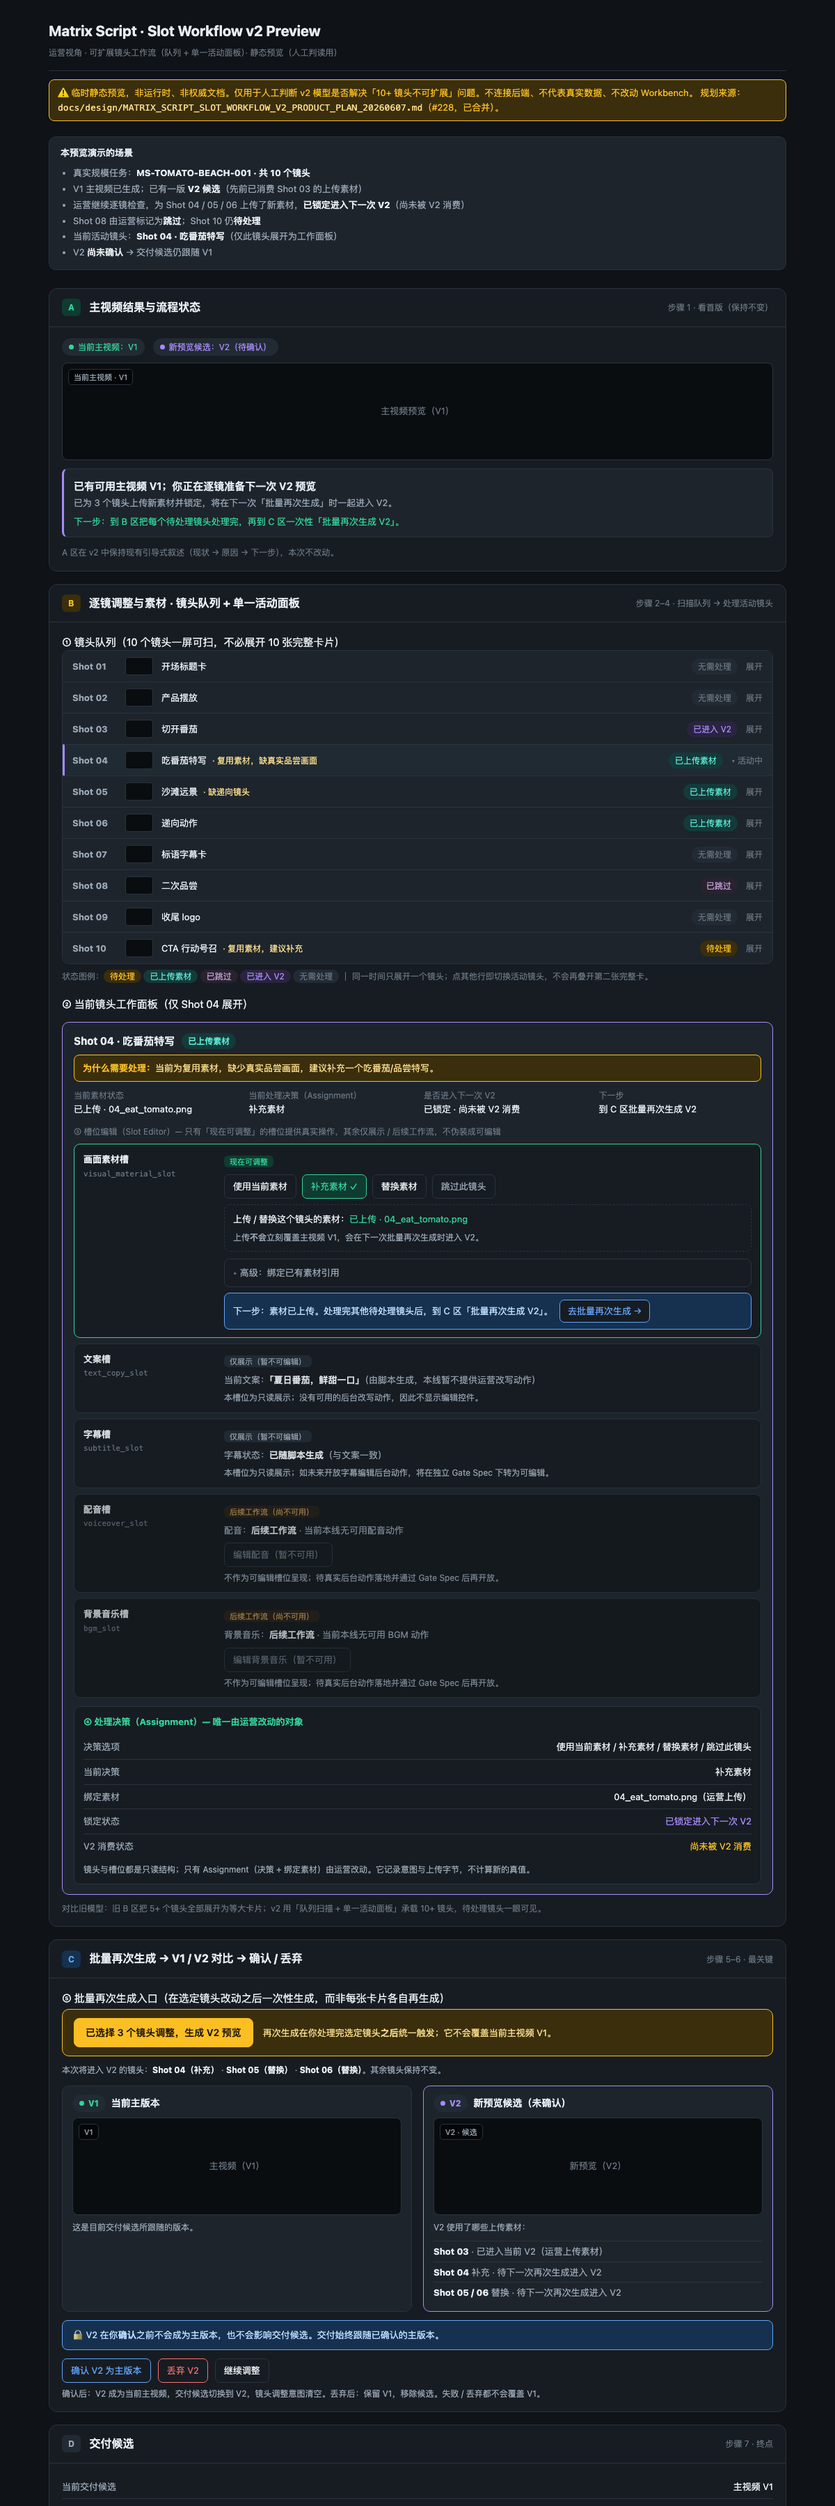
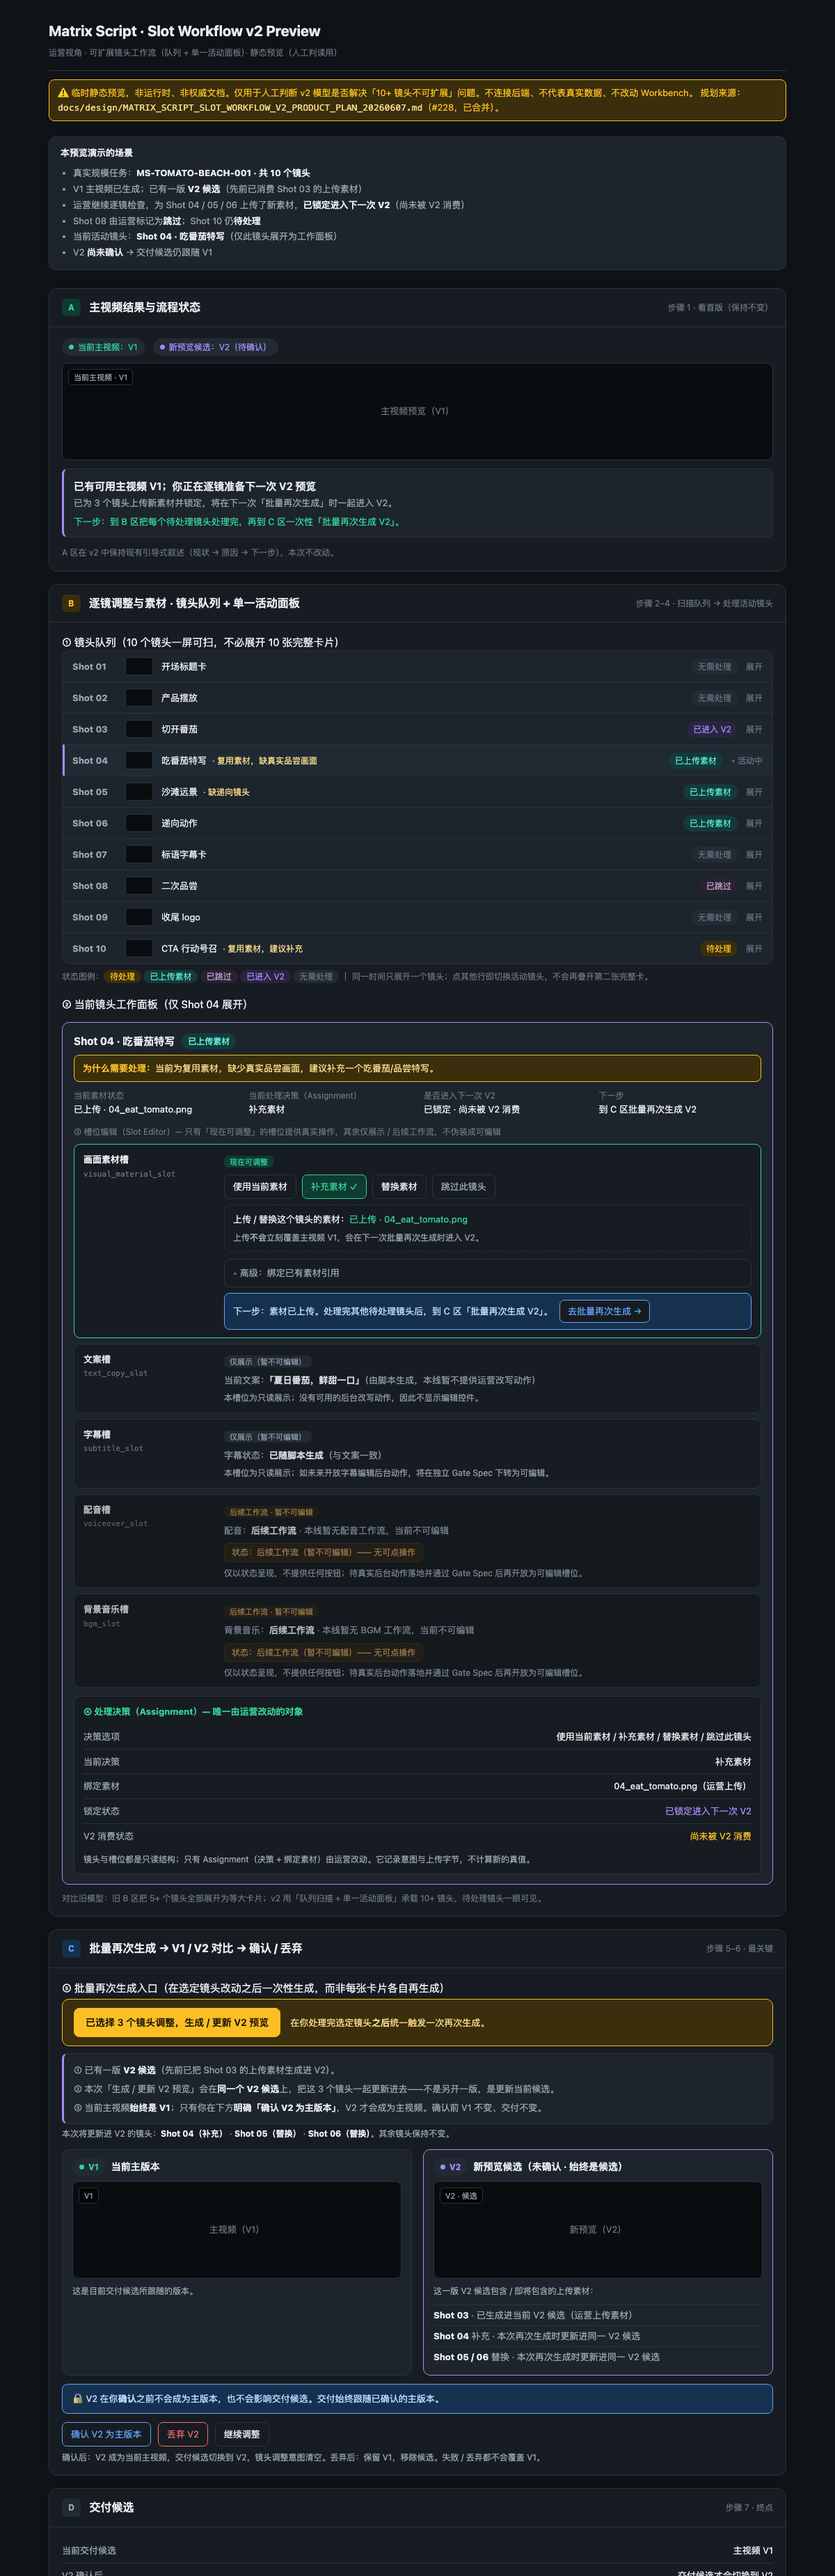
docs(matrix-script): Slot Workflow v2 preview revision C-1/C-2 + fast re-review PASS
Preview-only revision per Owner decision (no model change, no Gate Spec, no runtime):
- C-1: tighten C区 V1/V2 copy — existing V2 candidate; batch "生成/更新 V2 预览" updates
  the same candidate (not a new version); V1 stays current main until explicit confirm.
- C-2: future slots (voiceover/bgm) render as pure status lines, no disabled buttons.

Screenshot regenerated. Operator Review updated with Round-2 fast re-review: PASS.

Docs-only. Not authority. No gateway/templates/services/tests/schemas/contracts touched.
Gate Spec unchanged. No implementation authorized. Stops at Owner Decision Request (S4).

diff --git a/docs/design/previews/matrix_script_slot_workflow_v2_preview.html b/docs/design/previews/matrix_script_slot_workflow_v2_preview.html
@@ -129,6 +129,8 @@
   .upload .file{color:var(--emerald)}
   .ro{font-size:13px;color:var(--muted)}
   .ro b{color:var(--ink)}
+  .statusline{display:inline-block;margin-top:8px;font-size:12px;padding:3px 10px;border-radius:6px;
+    background:#241c12;color:#c79a52;border:1px solid #3a2e0c}
   details.adv{margin-top:10px;border:1px solid var(--line);border-radius:8px;background:var(--panel)}
   details.adv>summary{cursor:pointer;padding:9px 12px;font-size:13px;color:var(--muted);list-style:none}
   details.adv>summary::-webkit-details-marker{display:none}
@@ -153,6 +155,9 @@
   .batchbar .bexpl{font-size:13px;color:#f5d98a}
   .selset{font-size:12px;color:var(--muted);margin:4px 0 12px}
   .selset b{color:var(--ink)}
+  .v2state{background:var(--panel2);border:1px solid var(--line);border-left:3px solid var(--violet);
+    border-radius:8px;padding:10px 14px;margin:8px 0 4px;font-size:13px;color:var(--muted)}
+  .v2state>div{padding:3px 0} .v2state b{color:var(--ink)}
 
   /* ---- compare ---- */
   .cmp{display:grid;grid-template-columns:1fr 1fr;gap:16px;margin:10px 0}
@@ -310,10 +315,10 @@
         <div class="slot future">
           <div class="sname">配音槽<code>voiceover_slot</code></div>
           <div class="sbody">
-            <span class="sclass fut">后续工作流（尚不可用）</span>
-            <div class="ro" style="margin-top:6px">配音：<b>后续工作流</b> · 当前本线无可用配音动作</div>
-            <div class="choices"><span class="btn disabled">编辑配音（暂不可用）</span></div>
-            <div class="helper">不作为可编辑槽位呈现；待真实后台动作落地并通过 Gate Spec 后再开放。</div>
+            <span class="sclass fut">后续工作流 · 暂不可编辑</span>
+            <div class="ro" style="margin-top:6px">配音：<b>后续工作流</b> · 本线暂无配音工作流，当前不可编辑</div>
+            <div class="statusline">状态：后续工作流（暂不可编辑）—— 无可点操作</div>
+            <div class="helper">仅以状态呈现，不提供任何按钮；待真实后台动作落地并通过 Gate Spec 后再开放为可编辑槽位。</div>
           </div>
         </div>
 
@@ -321,10 +326,10 @@
         <div class="slot future">
           <div class="sname">背景音乐槽<code>bgm_slot</code></div>
           <div class="sbody">
-            <span class="sclass fut">后续工作流（尚不可用）</span>
-            <div class="ro" style="margin-top:6px">背景音乐：<b>后续工作流</b> · 当前本线无可用 BGM 动作</div>
-            <div class="choices"><span class="btn disabled">编辑背景音乐（暂不可用）</span></div>
-            <div class="helper">不作为可编辑槽位呈现；待真实后台动作落地并通过 Gate Spec 后再开放。</div>
+            <span class="sclass fut">后续工作流 · 暂不可编辑</span>
+            <div class="ro" style="margin-top:6px">背景音乐：<b>后续工作流</b> · 本线暂无 BGM 工作流，当前不可编辑</div>
+            <div class="statusline">状态：后续工作流（暂不可编辑）—— 无可点操作</div>
+            <div class="helper">仅以状态呈现，不提供任何按钮；待真实后台动作落地并通过 Gate Spec 后再开放为可编辑槽位。</div>
           </div>
         </div>
       </div>
@@ -356,10 +361,15 @@
     <!-- 5) Batch Regenerate Entry -->
     <div class="slabel">⑤ 批量再次生成入口（在选定镜头改动之后一次性生成，而非每张卡片各自再生成）</div>
     <div class="batchbar">
-      <span class="bbtn">已选择 3 个镜头调整，生成 V2 预览</span>
-      <span class="bexpl">再次生成在你处理完选定镜头<b>之后</b>统一触发；它不会覆盖当前主视频 V1。</span>
+      <span class="bbtn">已选择 3 个镜头调整，生成 / 更新 V2 预览</span>
+      <span class="bexpl">在你处理完选定镜头<b>之后</b>统一触发一次再次生成。</span>
     </div>
-    <div class="selset">本次将进入 V2 的镜头：<b>Shot 04（补充）</b> · <b>Shot 05（替换）</b> · <b>Shot 06（替换）</b>。其余镜头保持不变。</div>
+    <div class="v2state">
+      <div>① 已有一版 <b>V2 候选</b>（先前已把 Shot 03 的上传素材生成进 V2）。</div>
+      <div>② 本次「生成 / 更新 V2 预览」会在<b>同一个 V2 候选</b>上，把这 3 个镜头一起更新进去——不是另开一版，是更新当前候选。</div>
+      <div>③ 当前主视频<b>始终是 V1</b>；只有你在下方<b>明确「确认 V2 为主版本」</b>，V2 才会成为主视频。确认前 V1 不变、交付不变。</div>
+    </div>
+    <div class="selset">本次将更新进 V2 的镜头：<b>Shot 04（补充）</b> · <b>Shot 05（替换）</b> · <b>Shot 06（替换）</b>。其余镜头保持不变。</div>
 
     <div class="cmp">
       <div class="col">
@@ -368,13 +378,13 @@
         <div class="helper" style="margin-top:8px">这是目前交付候选所跟随的版本。</div>
       </div>
       <div class="col v2">
-        <h4><span class="pill cand"><span class="dot"></span>V2</span> 新预览候选（未确认）</h4>
+        <h4><span class="pill cand"><span class="dot"></span>V2</span> 新预览候选（未确认 · 始终是候选）</h4>
         <div class="videoframe"><span class="vbadge">V2 · 候选</span>新预览（V2）</div>
-        <div class="helper" style="margin-top:8px">V2 使用了哪些上传素材：</div>
+        <div class="helper" style="margin-top:8px">这一版 V2 候选包含 / 即将包含的上传素材：</div>
         <ul class="changed">
-          <li><b>Shot 03</b> · 已进入当前 V2（运营上传素材）</li>
-          <li><b>Shot 04</b> 补充 · 待下一次再次生成进入 V2</li>
-          <li><b>Shot 05 / 06</b> 替换 · 待下一次再次生成进入 V2</li>
+          <li><b>Shot 03</b> · 已生成进当前 V2 候选（运营上传素材）</li>
+          <li><b>Shot 04</b> 补充 · 本次再次生成时更新进同一 V2 候选</li>
+          <li><b>Shot 05 / 06</b> 替换 · 本次再次生成时更新进同一 V2 候选</li>
         </ul>
       </div>
     </div>

diff --git a/docs/reviews/matrix_script_slot_workflow_v2_operator_review.md b/docs/reviews/matrix_script_slot_workflow_v2_operator_review.md
@@ -4,6 +4,11 @@ Status: **OPERATOR REVIEW REPORT — docs-only. Not authority, not implementatio
 Harness X S3→S4 gate artifact (role: Operator Reviewer; reads the static preview +
 screenshot only, **does not read code**). The verdict is the gate.
 
+> **Round 2 (post-revision) verdict: PASS.** Round 1 was PASS WITH ISSUES (C-1, C-2).
+> The Owner approved a Preview-only revision; both issues are resolved. The Round-2
+> fast re-review is recorded in §10. The Round-1 detail (§1–§9) is preserved below as
+> the audit trail.
+
 Inputs reviewed:
 - Preview: `docs/design/previews/matrix_script_slot_workflow_v2_preview.html`
 - Screenshot: `docs/design/screenshots/matrix_script_slot_workflow_v2_preview_20260607.png`
@@ -121,6 +126,53 @@ directly as binding copy rules in the Gate Spec amendment scope.
 - docs-only; reads preview + screenshot only; no code read; no runtime, template,
   service, test, schema, contract, or Gate Spec change.
 - Not authority; does not authorize implementation; does not advance any signoff.
+
+---
+
+## 10. Round 2 — Fast Re-Review (2026-06-07, post C-1/C-2 Preview revision)
+
+The Owner approved a **Preview-only** revision (no model change, no Gate Spec, no
+runtime). The two Round-1 issues were addressed in
+`docs/design/previews/matrix_script_slot_workflow_v2_preview.html`; the screenshot was
+regenerated. This is the fast re-review of the revised preview.
+
+### Changes verified
+
+- **C-1 (V1/V2 dual-state copy):** C区 now carries an explicit three-line
+  explanation above the compare: ① an existing V2 candidate already holds Shot 03; ②
+  "生成 / 更新 V2 预览" updates the **same** V2 candidate with the selected shots (not a
+  new version); ③ the current main is **始终是 V1** until an explicit "确认 V2 为主版本",
+  with V1 and delivery unchanged before confirm. The V2 compare column copy and the
+  batch button/selected-set lines were aligned to the "update the same candidate"
+  framing. The guard line ("V2 确认前不影响交付") is retained.
+- **C-2 (future slots):** the disabled buttons on `voiceover_slot` and `bgm_slot` were
+  removed. Both now render as pure status lines ("状态：后续工作流（暂不可编辑）—— 无可点
+  操作") with a "后续工作流 · 暂不可编辑" badge and no clickable control — read as future
+  workflow / not editable, not as a disabled action.
+
+### Re-review checklist (Round 2)
+
+| Item | Verdict |
+|------|---------|
+| C-1 V2 dual-state copy | **PASS** — existing-candidate / update-same-candidate / V1-stays-main-until-confirm now explicit |
+| C-2 future slots no longer misleading | **PASS** — pure status lines, no buttons, no advertised capability |
+| 10-shot scalability | **PASS** — queue unchanged; 10 shots scannable in one screen |
+| one-shot focus | **PASS** — single active Current Shot Work Panel (Shot 04) |
+| slot classification | **PASS** — visual active; text/subtitle display-only; voiceover/bgm future status-only |
+| assignment clarity | **PASS** — Assignment remains the only operator-mutated object |
+| batch regenerate clarity | **PASS** — single central "生成 / 更新 V2 预览"; after selected changes, not per-card |
+| V1/V2 semantics | **PASS** — V1 current main; V2 candidate; confirm-gated promotion |
+| delivery truth preservation | **PASS** — delivery follows confirmed main; 正式交付就绪：否; diagnostics collapsed |
+
+No model-level failure found; the revision is copy/presentation only.
+
+### Round 2 verdict
+
+**PASS.** Both Round-1 issues resolved; the v2 model is validated and the preview is
+operator-comprehensible at 10+ shots. Recommended next transition: **S4 → S5 — author
+the Gate Spec amendment / new Gate Spec** (Owner-gated).
+
+---
 
 *This is a Harness X Operator Review (S4 gate artifact). The verdict is the gate; the
 Owner decides the next transition.*
